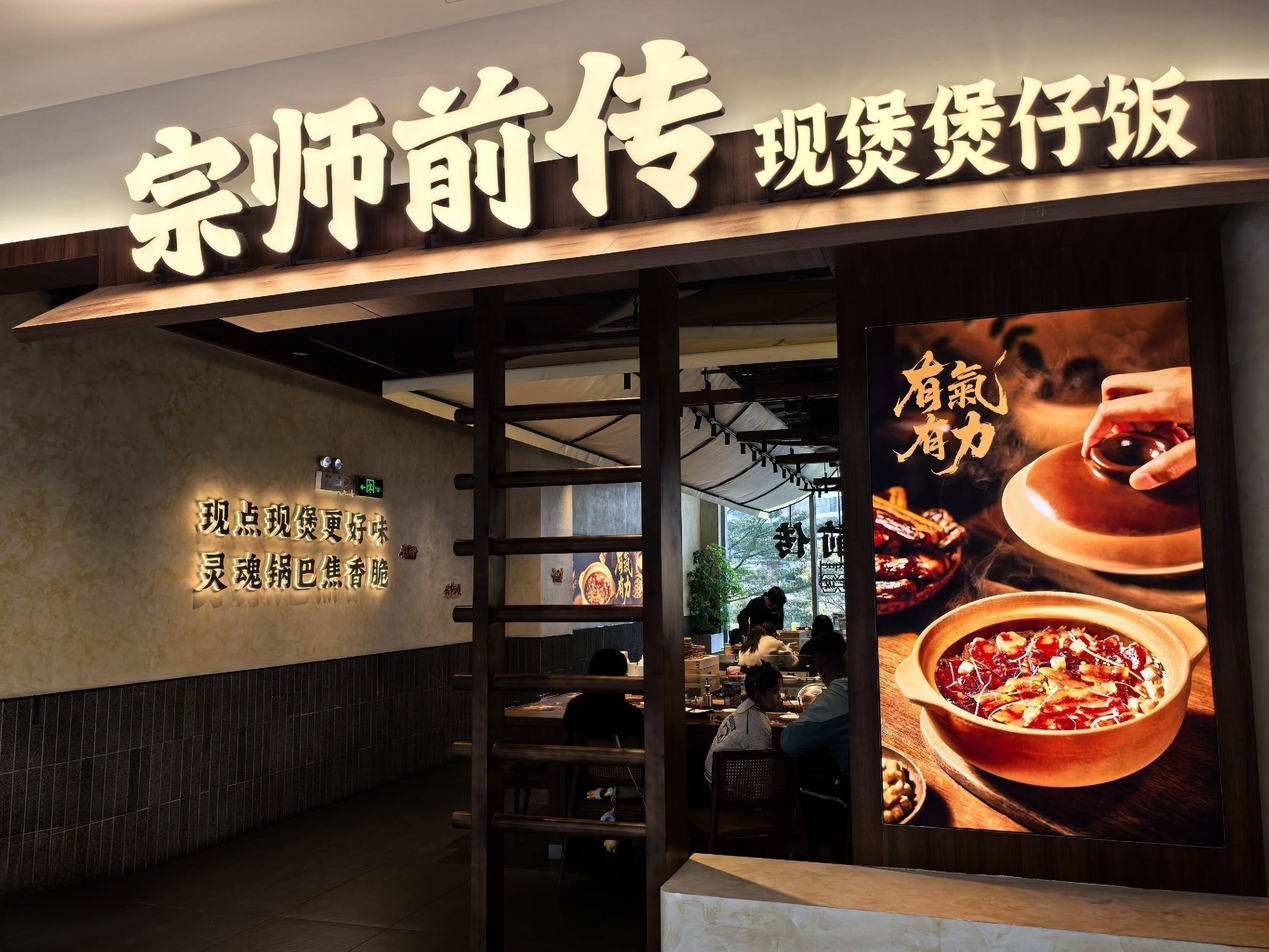
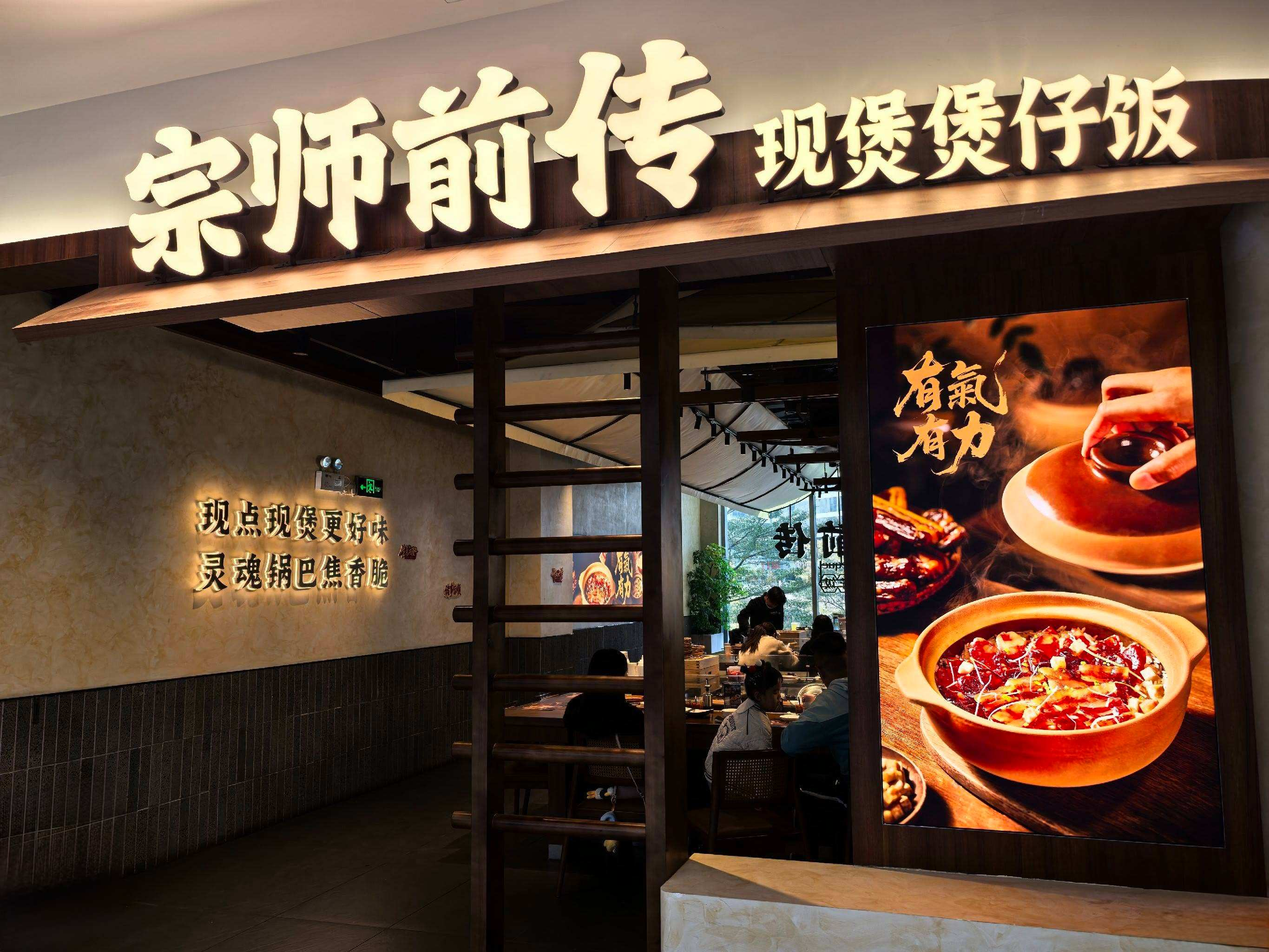
updates

diff --git a/contact.html b/contact.html
@@ -90,7 +90,7 @@
         <!-- Store 2 -->
         <div class="location-card">
           <div class="location-img">
-            <img src="images/store2.png" alt="Store 2" loading="lazy" />
+            <img src="images/store2.jpg" alt="Store 2" loading="lazy" />
             <div class="location-badge" data-i18n="store2_badge">中国·广州</div>
           </div>
           <div class="location-info">
@@ -111,7 +111,7 @@
         <!-- Store 3 -->
         <div class="location-card">
           <div class="location-img">
-            <img src="images/store3.png" alt="Store 3" loading="lazy" />
+            <img src="images/store3.jpg" alt="Store 3" loading="lazy" />
             <div class="location-badge" data-i18n="store3_badge">中国·广州</div>
           </div>
           <div class="location-info">

diff --git a/about.html b/about.html
@@ -210,7 +210,7 @@
 
         <div class="psd-item psd-item--reverse">
           <div class="psd-img">
-            <img src="images/shaguo.png" alt="砂锅" loading="lazy" />
+            <img src="images/shaguo.jpg" alt="砂锅" loading="lazy" />
           </div>
           <div class="psd-body">
             <span class="psd-num">04</span>
